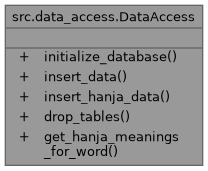
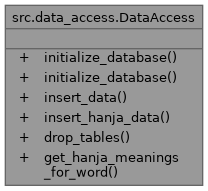
deploy: 5821c706241ea5e87f3b5605bb177ca896e6c6f5

diff --git a/docs/classsrc_1_1data__access_1_1DataAccess.html b/docs/classsrc_1_1data__access_1_1DataAccess.html
@@ -107,12 +107,14 @@ Collaboration diagram for src.data_access.DataAccess:</div>
 <div class="dyncontent">
 <div class="center"><img src="classsrc_1_1data__access_1_1DataAccess__coll__graph.png" border="0" usemap="#asrc_8data__access_8DataAccess_coll__map" alt="Collaboration graph"/></div>
 <map name="asrc_8data__access_8DataAccess_coll__map" id="asrc_8data__access_8DataAccess_coll__map">
-<area shape="rect" title=" " alt="" coords="5,5,203,165"/>
+<area shape="rect" title=" " alt="" coords="5,5,203,185"/>
 </map>
 </div>
 <table class="memberdecls">
 <tr class="heading"><td colspan="2"><h2 class="groupheader"><a id="pub-methods" name="pub-methods"></a>
 Public Member Functions</h2></td></tr>
+<tr class="memitem:a4684f7cefabfbcb84b28be9e2ef74f64" id="r_a4684f7cefabfbcb84b28be9e2ef74f64"><td class="memItemLeft" align="right" valign="top">&#160;</td><td class="memItemRight" valign="bottom"><a class="el" href="classsrc_1_1data__access_1_1DataAccess.html#a4684f7cefabfbcb84b28be9e2ef74f64">initialize_database</a> (self)</td></tr>
+<tr class="separator:a4684f7cefabfbcb84b28be9e2ef74f64"><td class="memSeparator" colspan="2">&#160;</td></tr>
 <tr class="memitem:a4684f7cefabfbcb84b28be9e2ef74f64" id="r_a4684f7cefabfbcb84b28be9e2ef74f64"><td class="memItemLeft" align="right" valign="top">&#160;</td><td class="memItemRight" valign="bottom"><a class="el" href="classsrc_1_1data__access_1_1DataAccess.html#a4684f7cefabfbcb84b28be9e2ef74f64">initialize_database</a> (self)</td></tr>
 <tr class="separator:a4684f7cefabfbcb84b28be9e2ef74f64"><td class="memSeparator" colspan="2">&#160;</td></tr>
 <tr class="memitem:a4f4e7ab71ee7131858752bdfb4d0e2f1" id="r_a4f4e7ab71ee7131858752bdfb4d0e2f1"><td class="memItemLeft" align="right" valign="top">&#160;</td><td class="memItemRight" valign="bottom"><a class="el" href="classsrc_1_1data__access_1_1DataAccess.html#a4f4e7ab71ee7131858752bdfb4d0e2f1">insert_data</a> (self, processed_data)</td></tr>
@@ -196,7 +198,25 @@ Returns:
 </div>
 </div>
 <a id="a4684f7cefabfbcb84b28be9e2ef74f64" name="a4684f7cefabfbcb84b28be9e2ef74f64"></a>
-<h2 class="memtitle"><span class="permalink"><a href="#a4684f7cefabfbcb84b28be9e2ef74f64">&#9670;&#160;</a></span>initialize_database()</h2>
+<h2 class="memtitle"><span class="permalink"><a href="#a4684f7cefabfbcb84b28be9e2ef74f64">&#9670;&#160;</a></span>initialize_database() <span class="overload">[1/2]</span></h2>
+
+<div class="memitem">
+<div class="memproto">
+      <table class="memname">
+        <tr>
+          <td class="memname">src.data_access.DataAccess.initialize_database </td>
+          <td>(</td>
+          <td class="paramtype">&#160;</td>
+          <td class="paramname"><em>self</em></td><td>)</td>
+          <td></td>
+        </tr>
+      </table>
+</div><div class="memdoc">
+
+</div>
+</div>
+<a id="a4684f7cefabfbcb84b28be9e2ef74f64" name="a4684f7cefabfbcb84b28be9e2ef74f64"></a>
+<h2 class="memtitle"><span class="permalink"><a href="#a4684f7cefabfbcb84b28be9e2ef74f64">&#9670;&#160;</a></span>initialize_database() <span class="overload">[2/2]</span></h2>
 
 <div class="memitem">
 <div class="memproto">
@@ -212,9 +232,21 @@ Returns:
 </div><div class="memdoc">
 <pre class="fragment">Initializes the database by creating necessary tables if they don't already exist.
 
-Tables:
-    - korean_words: Stores Korean words along with their Hanja and glossary meanings.
-    - hanja_characters: Stores individual Hanja characters and their corresponding Korean pronunciations and meanings.
+Database Schema:
+----------------
+**korean_words**
+- `id` (INTEGER, PRIMARY KEY): Unique identifier for each word.
+- `word` (TEXT, NOT NULL): Korean word.
+- `hanja` (TEXT): Associated Hanja characters.
+- `glossary` (TEXT): Word's glossary or definition.
+
+**hanja_characters**
+- `id` (INTEGER, PRIMARY KEY AUTOINCREMENT): Unique identifier for each Hanja character.
+- `character` (TEXT, NOT NULL, UNIQUE): The Hanja character.
+- `korean` (TEXT, NOT NULL): Korean pronunciation of the Hanja.
+- `meaning` (TEXT): Meaning of the Hanja character.
+
+\image html database_diagram.png
 </pre> 
 </div>
 </div>

diff --git a/docs/navtreeindex0.js b/docs/navtreeindex0.js
@@ -4,24 +4,26 @@ var NAVTREEINDEX0 =
 "____init_____8py.html#aa53e53166b909c6176954fe5c28e670e":[2,0,0,0,0],
 "annotated.html":[1,0],
 "classes.html":[1,1],
-"classsrc_1_1data__access_1_1DataAccess.html":[1,0,0,0,0],
 "classsrc_1_1data__access_1_1DataAccess.html":[0,0,0,1,0],
-"classsrc_1_1data__access_1_1DataAccess.html#a1cfc6893f66c213340355c6acaf1a3a3":[0,0,0,1,0,4],
-"classsrc_1_1data__access_1_1DataAccess.html#a1cfc6893f66c213340355c6acaf1a3a3":[1,0,0,0,0,4],
-"classsrc_1_1data__access_1_1DataAccess.html#a23e8da2b908674f31c01407620fe3728":[1,0,0,0,0,0],
+"classsrc_1_1data__access_1_1DataAccess.html":[1,0,0,0,0],
+"classsrc_1_1data__access_1_1DataAccess.html#a1cfc6893f66c213340355c6acaf1a3a3":[1,0,0,0,0,5],
+"classsrc_1_1data__access_1_1DataAccess.html#a1cfc6893f66c213340355c6acaf1a3a3":[0,0,0,1,0,5],
 "classsrc_1_1data__access_1_1DataAccess.html#a23e8da2b908674f31c01407620fe3728":[0,0,0,1,0,0],
+"classsrc_1_1data__access_1_1DataAccess.html#a23e8da2b908674f31c01407620fe3728":[1,0,0,0,0,0],
 "classsrc_1_1data__access_1_1DataAccess.html#a4684f7cefabfbcb84b28be9e2ef74f64":[1,0,0,0,0,2],
+"classsrc_1_1data__access_1_1DataAccess.html#a4684f7cefabfbcb84b28be9e2ef74f64":[1,0,0,0,0,3],
+"classsrc_1_1data__access_1_1DataAccess.html#a4684f7cefabfbcb84b28be9e2ef74f64":[0,0,0,1,0,3],
 "classsrc_1_1data__access_1_1DataAccess.html#a4684f7cefabfbcb84b28be9e2ef74f64":[0,0,0,1,0,2],
-"classsrc_1_1data__access_1_1DataAccess.html#a4f4e7ab71ee7131858752bdfb4d0e2f1":[1,0,0,0,0,3],
-"classsrc_1_1data__access_1_1DataAccess.html#a4f4e7ab71ee7131858752bdfb4d0e2f1":[0,0,0,1,0,3],
+"classsrc_1_1data__access_1_1DataAccess.html#a4f4e7ab71ee7131858752bdfb4d0e2f1":[1,0,0,0,0,4],
+"classsrc_1_1data__access_1_1DataAccess.html#a4f4e7ab71ee7131858752bdfb4d0e2f1":[0,0,0,1,0,4],
 "classsrc_1_1data__access_1_1DataAccess.html#a5f80aa884c00c50a14da99ac902c4dc7":[1,0,0,0,0,1],
 "classsrc_1_1data__access_1_1DataAccess.html#a5f80aa884c00c50a14da99ac902c4dc7":[0,0,0,1,0,1],
 "classsrc_1_1data__processing_1_1DataProcessor.html":[1,0,0,1,0],
 "classsrc_1_1data__processing_1_1DataProcessor.html":[0,0,0,2,0],
 "classsrc_1_1data__processing_1_1DataProcessor.html#a4d8f294a1410020041fdd57ebca5c629":[0,0,0,2,0,0],
 "classsrc_1_1data__processing_1_1DataProcessor.html#a4d8f294a1410020041fdd57ebca5c629":[1,0,0,1,0,0],
-"classsrc_1_1data__processing_1_1DataProcessor.html#a611dcfaf4a6c3129fc38bc01d659203f":[1,0,0,1,0,2],
 "classsrc_1_1data__processing_1_1DataProcessor.html#a611dcfaf4a6c3129fc38bc01d659203f":[0,0,0,2,0,2],
+"classsrc_1_1data__processing_1_1DataProcessor.html#a611dcfaf4a6c3129fc38bc01d659203f":[1,0,0,1,0,2],
 "classsrc_1_1data__processing_1_1DataProcessor.html#acee13daf812b03ebd4b468b5bd21d832":[1,0,0,1,0,3],
 "classsrc_1_1data__processing_1_1DataProcessor.html#acee13daf812b03ebd4b468b5bd21d832":[0,0,0,2,0,3],
 "classsrc_1_1data__processing_1_1DataProcessor.html#af1d408b78a8a28b54b96e30bc3de1754":[1,0,0,1,0,1],

diff --git a/docs/classsrc_1_1data__access_1_1DataAccess-members.html b/docs/classsrc_1_1data__access_1_1DataAccess-members.html
@@ -105,8 +105,9 @@ $(document).ready(function(){initNavTree('classsrc_1_1data__access_1_1DataAccess
   <tr class="even"><td class="entry"><a class="el" href="classsrc_1_1data__access_1_1DataAccess.html#a23e8da2b908674f31c01407620fe3728">drop_tables</a>(self, cursor)</td><td class="entry"><a class="el" href="classsrc_1_1data__access_1_1DataAccess.html">src.data_access.DataAccess</a></td><td class="entry"></td></tr>
   <tr class="odd"><td class="entry"><a class="el" href="classsrc_1_1data__access_1_1DataAccess.html#a5f80aa884c00c50a14da99ac902c4dc7">get_hanja_meanings_for_word</a>(self, word)</td><td class="entry"><a class="el" href="classsrc_1_1data__access_1_1DataAccess.html">src.data_access.DataAccess</a></td><td class="entry"></td></tr>
   <tr class="even"><td class="entry"><a class="el" href="classsrc_1_1data__access_1_1DataAccess.html#a4684f7cefabfbcb84b28be9e2ef74f64">initialize_database</a>(self)</td><td class="entry"><a class="el" href="classsrc_1_1data__access_1_1DataAccess.html">src.data_access.DataAccess</a></td><td class="entry"></td></tr>
-  <tr class="odd"><td class="entry"><a class="el" href="classsrc_1_1data__access_1_1DataAccess.html#a4f4e7ab71ee7131858752bdfb4d0e2f1">insert_data</a>(self, processed_data)</td><td class="entry"><a class="el" href="classsrc_1_1data__access_1_1DataAccess.html">src.data_access.DataAccess</a></td><td class="entry"></td></tr>
-  <tr class="even"><td class="entry"><a class="el" href="classsrc_1_1data__access_1_1DataAccess.html#a1cfc6893f66c213340355c6acaf1a3a3">insert_hanja_data</a>(self, hanja_dict)</td><td class="entry"><a class="el" href="classsrc_1_1data__access_1_1DataAccess.html">src.data_access.DataAccess</a></td><td class="entry"></td></tr>
+  <tr class="odd"><td class="entry"><a class="el" href="classsrc_1_1data__access_1_1DataAccess.html#a4684f7cefabfbcb84b28be9e2ef74f64">initialize_database</a>(self)</td><td class="entry"><a class="el" href="classsrc_1_1data__access_1_1DataAccess.html">src.data_access.DataAccess</a></td><td class="entry"></td></tr>
+  <tr class="even"><td class="entry"><a class="el" href="classsrc_1_1data__access_1_1DataAccess.html#a4f4e7ab71ee7131858752bdfb4d0e2f1">insert_data</a>(self, processed_data)</td><td class="entry"><a class="el" href="classsrc_1_1data__access_1_1DataAccess.html">src.data_access.DataAccess</a></td><td class="entry"></td></tr>
+  <tr class="odd"><td class="entry"><a class="el" href="classsrc_1_1data__access_1_1DataAccess.html#a1cfc6893f66c213340355c6acaf1a3a3">insert_hanja_data</a>(self, hanja_dict)</td><td class="entry"><a class="el" href="classsrc_1_1data__access_1_1DataAccess.html">src.data_access.DataAccess</a></td><td class="entry"></td></tr>
 </table></div><!-- contents -->
 </div><!-- doc-content -->
 <!-- start footer part -->

diff --git a/docs/search/all_6.js b/docs/search/all_6.js
@@ -1,6 +1,6 @@
 var searchData=
 [
-  ['initialize_5fdatabase_0',['initialize_database',['../classsrc_1_1data__access_1_1DataAccess.html#a4684f7cefabfbcb84b28be9e2ef74f64',1,'src::data_access::DataAccess']]],
+  ['initialize_5fdatabase_0',['initialize_database',['../classsrc_1_1data__access_1_1DataAccess.html#a4684f7cefabfbcb84b28be9e2ef74f64',1,'src.data_access.DataAccess.initialize_database(self)'],['../classsrc_1_1data__access_1_1DataAccess.html#a4684f7cefabfbcb84b28be9e2ef74f64',1,'src.data_access.DataAccess.initialize_database(self)']]],
   ['insert_5fdata_1',['insert_data',['../classsrc_1_1data__access_1_1DataAccess.html#a4f4e7ab71ee7131858752bdfb4d0e2f1',1,'src::data_access::DataAccess']]],
   ['insert_5fhanja_5fdata_2',['insert_hanja_data',['../classsrc_1_1data__access_1_1DataAccess.html#a1cfc6893f66c213340355c6acaf1a3a3',1,'src::data_access::DataAccess']]]
 ];

diff --git a/docs/search/functions_5.js b/docs/search/functions_5.js
@@ -1,6 +1,6 @@
 var searchData=
 [
-  ['initialize_5fdatabase_0',['initialize_database',['../classsrc_1_1data__access_1_1DataAccess.html#a4684f7cefabfbcb84b28be9e2ef74f64',1,'src::data_access::DataAccess']]],
+  ['initialize_5fdatabase_0',['initialize_database',['../classsrc_1_1data__access_1_1DataAccess.html#a4684f7cefabfbcb84b28be9e2ef74f64',1,'src.data_access.DataAccess.initialize_database(self)'],['../classsrc_1_1data__access_1_1DataAccess.html#a4684f7cefabfbcb84b28be9e2ef74f64',1,'src.data_access.DataAccess.initialize_database(self)']]],
   ['insert_5fdata_1',['insert_data',['../classsrc_1_1data__access_1_1DataAccess.html#a4f4e7ab71ee7131858752bdfb4d0e2f1',1,'src::data_access::DataAccess']]],
   ['insert_5fhanja_5fdata_2',['insert_hanja_data',['../classsrc_1_1data__access_1_1DataAccess.html#a1cfc6893f66c213340355c6acaf1a3a3',1,'src::data_access::DataAccess']]]
 ];

diff --git a/docs/classsrc_1_1data__access_1_1DataAccess.js b/docs/classsrc_1_1data__access_1_1DataAccess.js
@@ -3,6 +3,7 @@ var classsrc_1_1data__access_1_1DataAccess =
     [ "drop_tables", "classsrc_1_1data__access_1_1DataAccess.html#a23e8da2b908674f31c01407620fe3728", null ],
     [ "get_hanja_meanings_for_word", "classsrc_1_1data__access_1_1DataAccess.html#a5f80aa884c00c50a14da99ac902c4dc7", null ],
     [ "initialize_database", "classsrc_1_1data__access_1_1DataAccess.html#a4684f7cefabfbcb84b28be9e2ef74f64", null ],
+    [ "initialize_database", "classsrc_1_1data__access_1_1DataAccess.html#a4684f7cefabfbcb84b28be9e2ef74f64", null ],
     [ "insert_data", "classsrc_1_1data__access_1_1DataAccess.html#a4f4e7ab71ee7131858752bdfb4d0e2f1", null ],
     [ "insert_hanja_data", "classsrc_1_1data__access_1_1DataAccess.html#a1cfc6893f66c213340355c6acaf1a3a3", null ]
 ];
